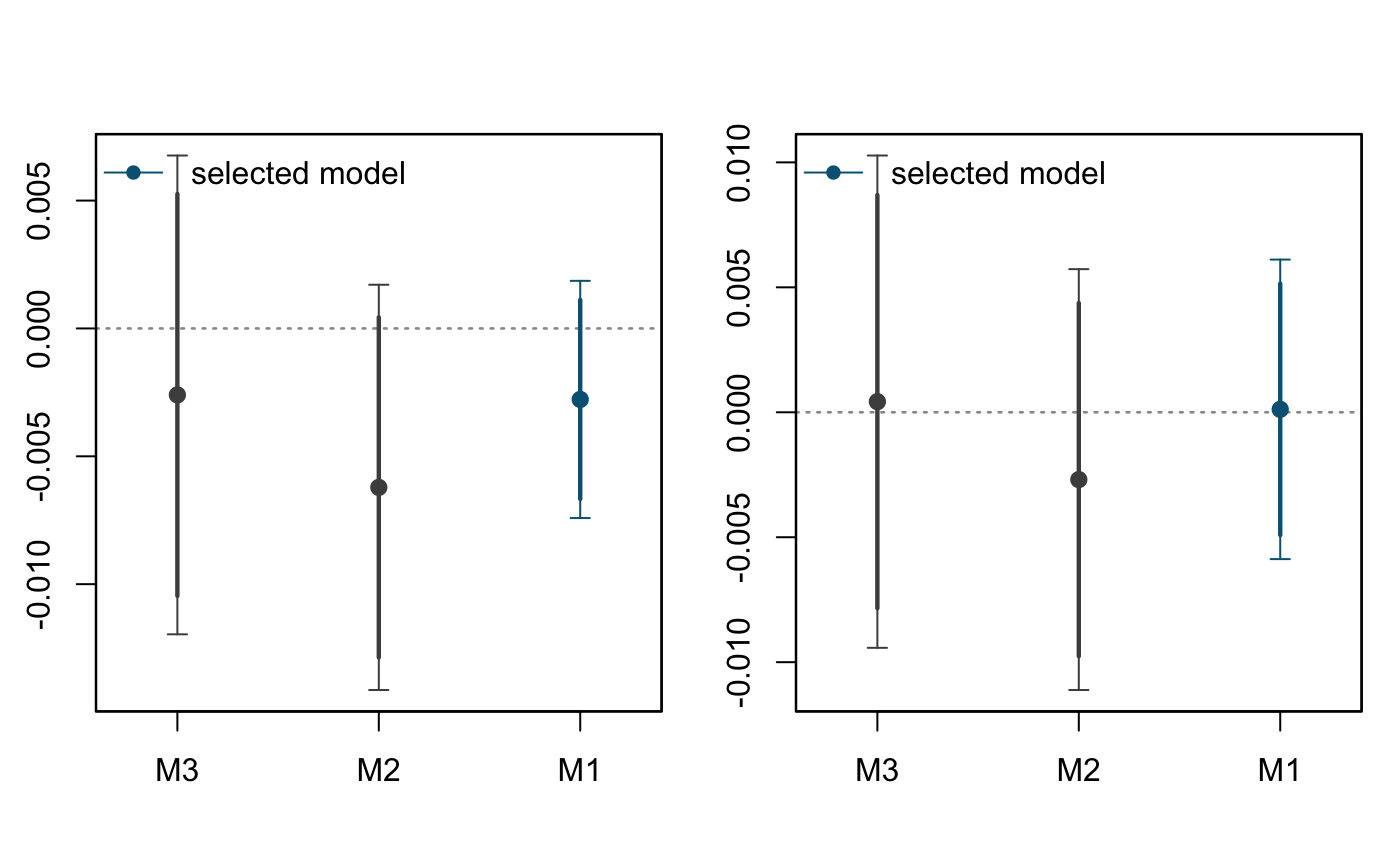
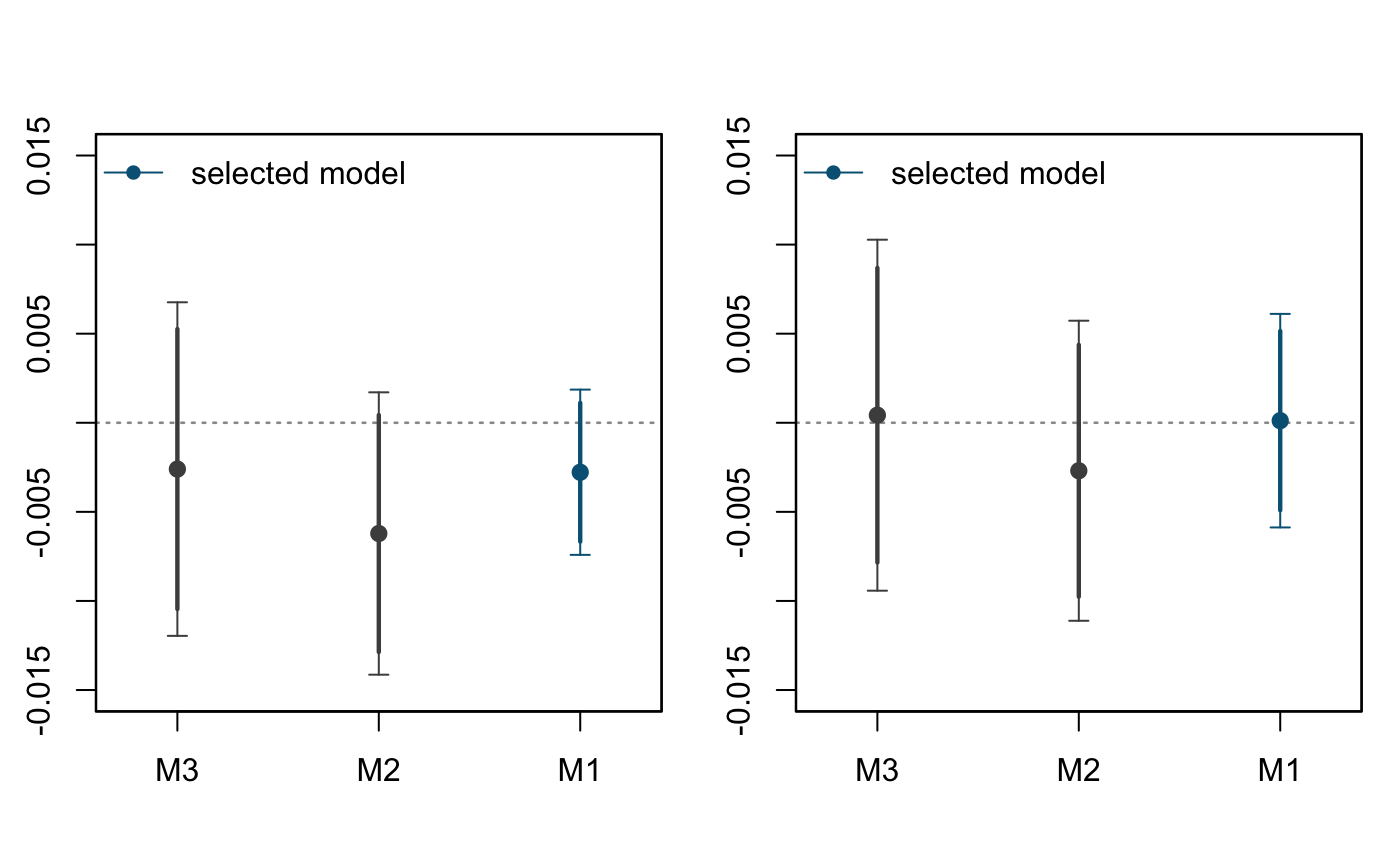
update docs

diff --git a/docs/articles/articles/diddesign.html b/docs/articles/articles/diddesign.html
@@ -79,7 +79,7 @@
     <div class="page-header toc-ignore">
       <h1>Example Usage (Panel Data)</h1>
             
-            <h4 class="date">2019-03-14</h4>
+            <h4 class="date">2019-03-15</h4>
       
       <small class="dont-index">Source: <a href="https://github.com/naoki-egami/DIDdesign/blob/master/vignettes/articles/diddesign.Rmd"><code>vignettes/articles/diddesign.Rmd</code></a></small>
       <div class="hidden name"><code>diddesign.Rmd</code></div>
@@ -102,7 +102,7 @@
 <h2 class="hasAnchor">
 <a href="#visualizing-data" class="anchor"></a>Visualizing Data</h2>
 <div class="sourceCode"><pre class="sourceCode r"><code class="sourceCode r"><span class="co"># original series </span>
-<span class="kw"><a href="../../reference/did_plot.html">did_plot</a></span>(lnavgsalary_cpi ~<span class="st"> </span>oncycle, <span class="dt">data =</span> anzia2012,
+<span class="kw"><a href="../../reference/did_plot.html">did_plot</a></span>(lnavgsalary_cpi <span class="op">~</span><span class="st"> </span>oncycle, <span class="dt">data =</span> anzia2012,
   <span class="dt">post_treatment =</span> <span class="kw"><a href="https://www.rdocumentation.org/packages/base/topics/c">c</a></span>(<span class="dv">2007</span>, <span class="dv">2008</span>, <span class="dv">2009</span>),
   <span class="dt">id_subject =</span> <span class="st">"district"</span>,
   <span class="dt">id_time =</span> <span class="st">"year"</span>,
@@ -112,7 +112,7 @@
 <p><img src="diddesign_files/figure-html/unnamed-chunk-2-1.png" width="700"></p>
 <div class="sourceCode"><pre class="sourceCode r"><code class="sourceCode r">
 <span class="co"># differenced series (changes-in-trend)</span>
-<span class="kw"><a href="../../reference/did_plot.html">did_plot</a></span>(lnavgsalary_cpi ~<span class="st"> </span>oncycle, <span class="dt">data =</span> anzia2012,
+<span class="kw"><a href="../../reference/did_plot.html">did_plot</a></span>(lnavgsalary_cpi <span class="op">~</span><span class="st"> </span>oncycle, <span class="dt">data =</span> anzia2012,
   <span class="dt">post_treatment =</span> <span class="kw"><a href="https://www.rdocumentation.org/packages/base/topics/c">c</a></span>(<span class="dv">2007</span>, <span class="dv">2008</span>, <span class="dv">2009</span>),
   <span class="dt">id_subject =</span> <span class="st">"district"</span>,
   <span class="dt">id_time =</span> <span class="st">"year"</span>,
@@ -125,7 +125,7 @@
 <h2 class="hasAnchor">
 <a href="#nonparametric-estimator" class="anchor"></a>Nonparametric Estimator</h2>
 <div class="sourceCode"><pre class="sourceCode r"><code class="sourceCode r"><span class="co"># estimate ATT</span>
-fit_np &lt;-<span class="st"> </span><span class="kw"><a href="../../reference/did.html">did</a></span>(lnavgsalary_cpi ~<span class="st"> </span>oncycle, <span class="dt">data =</span> anzia2012,
+fit_np &lt;-<span class="st"> </span><span class="kw"><a href="../../reference/did.html">did</a></span>(lnavgsalary_cpi <span class="op">~</span><span class="st"> </span>oncycle, <span class="dt">data =</span> anzia2012,
     <span class="dt">id_subject =</span> <span class="st">"district"</span>, <span class="dt">id_time =</span> <span class="st">"year"</span>,
     <span class="dt">post_treatment =</span> <span class="kw"><a href="https://www.rdocumentation.org/packages/base/topics/c">c</a></span>(<span class="dv">2007</span>, <span class="dv">2008</span>, <span class="dv">2009</span>),
     <span class="dt">method =</span> <span class="st">"nonparametric"</span>,
@@ -165,11 +165,12 @@ fit_np &lt;-<span class="st"> </span><span class="kw"><a href="../../reference/d
 <div id="parametric-estimator-with-covariates" class="section level2">
 <h2 class="hasAnchor">
 <a href="#parametric-estimator-with-covariates" class="anchor"></a>Parametric Estimator (with Covariates)</h2>
-<div class="sourceCode"><pre class="sourceCode r"><code class="sourceCode r">fit_p1 &lt;-<span class="st"> </span><span class="kw"><a href="../../reference/did.html">did</a></span>(lnavgsalary_cpi ~<span class="st"> </span>oncycle |<span class="st"> </span>teachers_avg_yrs_exper +
-<span class="st">                        </span>ami_pc +<span class="st"> </span>asian_pc +<span class="st"> </span>black_pc +<span class="st"> </span>hisp_pc,
+<div class="sourceCode"><pre class="sourceCode r"><code class="sourceCode r">fit_p1 &lt;-<span class="st"> </span><span class="kw"><a href="../../reference/did.html">did</a></span>(lnavgsalary_cpi <span class="op">~</span><span class="st"> </span>oncycle <span class="op">|</span><span class="st"> </span>teachers_avg_yrs_exper <span class="op">+</span>
+<span class="st">                        </span>ami_pc <span class="op">+</span><span class="st"> </span>asian_pc <span class="op">+</span><span class="st"> </span>black_pc <span class="op">+</span><span class="st"> </span>hisp_pc,
   <span class="dt">data =</span> anzia2012, <span class="dt">id_subject =</span> <span class="st">'district'</span>, <span class="dt">id_time =</span> <span class="st">'year'</span>,
   <span class="dt">post_treatment =</span> <span class="kw"><a href="https://www.rdocumentation.org/packages/base/topics/c">c</a></span>(<span class="dv">2007</span>, <span class="dv">2008</span>, <span class="dv">2009</span>),
-    <span class="dt">method =</span> <span class="st">'parametric'</span>)
+    <span class="dt">method =</span> <span class="st">'parametric'</span>,
+  <span class="dt">verbose =</span> <span class="ot">TRUE</span>)
 <span class="co">#&gt; </span>
 <span class="co">#&gt; ... estimating treatment effect for  2007  ...</span>
 <span class="co">#&gt; </span>
@@ -191,20 +192,15 @@ fit_np &lt;-<span class="st"> </span><span class="kw"><a href="../../reference/d
 <span class="co">#&gt; 2009 -0.015 [-0.024, -0.006]       M1</span>
 
 <span class="co"># plot function</span>
-<span class="kw"><a href="https://www.rdocumentation.org/packages/graphics/topics/plot">plot</a></span>(fit_p1, <span class="dt">full =</span> <span class="ot">TRUE</span>, <span class="dt">ylim =</span> <span class="kw"><a href="https://www.rdocumentation.org/packages/base/topics/c">c</a></span>(-<span class="fl">0.025</span>, <span class="fl">0.005</span>), <span class="dt">xlim =</span> <span class="kw"><a href="https://www.rdocumentation.org/packages/base/topics/c">c</a></span>(-<span class="fl">0.5</span>, <span class="fl">3.5</span>))
+<span class="kw"><a href="https://www.rdocumentation.org/packages/graphics/topics/plot">plot</a></span>(fit_p1, <span class="dt">full =</span> <span class="ot">TRUE</span>, <span class="dt">ylim =</span> <span class="kw"><a href="https://www.rdocumentation.org/packages/base/topics/c">c</a></span>(<span class="op">-</span><span class="fl">0.025</span>, <span class="fl">0.005</span>), <span class="dt">xlim =</span> <span class="kw"><a href="https://www.rdocumentation.org/packages/base/topics/c">c</a></span>(<span class="op">-</span><span class="fl">0.5</span>, <span class="fl">3.5</span>))
 <span class="kw"><a href="https://www.rdocumentation.org/packages/graphics/topics/abline">abline</a></span>(<span class="dt">h =</span> <span class="dv">0</span>, <span class="dt">col =</span> <span class="st">'gray'</span>, <span class="dt">lwd =</span> <span class="fl">1.5</span>, <span class="dt">lty =</span> <span class="dv">3</span>)</code></pre></div>
 <p><img src="diddesign_files/figure-html/unnamed-chunk-5-1.png" width="700"></p>
 <p>We can compare estimates from a model without covariates.</p>
-<div class="sourceCode"><pre class="sourceCode r"><code class="sourceCode r">fit_p2 &lt;-<span class="st"> </span><span class="kw"><a href="../../reference/did.html">did</a></span>(lnavgsalary_cpi ~<span class="st"> </span>oncycle, <span class="dt">data =</span> anzia2012,
+<div class="sourceCode"><pre class="sourceCode r"><code class="sourceCode r">fit_p2 &lt;-<span class="st"> </span><span class="kw"><a href="../../reference/did.html">did</a></span>(lnavgsalary_cpi <span class="op">~</span><span class="st"> </span>oncycle, <span class="dt">data =</span> anzia2012,
     <span class="dt">id_subject =</span> <span class="st">"district"</span>, <span class="dt">id_time =</span> <span class="st">"year"</span>,
     <span class="dt">post_treatment =</span> <span class="kw"><a href="https://www.rdocumentation.org/packages/base/topics/c">c</a></span>(<span class="dv">2007</span>, <span class="dv">2008</span>, <span class="dv">2009</span>),
-    <span class="dt">method =</span> <span class="st">"parametric"</span>)
-<span class="co">#&gt; </span>
-<span class="co">#&gt; ... estimating treatment effect for  2007  ...</span>
-<span class="co">#&gt; </span>
-<span class="co">#&gt; ... estimating treatment effect for  2008  ...</span>
-<span class="co">#&gt; </span>
-<span class="co">#&gt; ... estimating treatment effect for  2009  ...</span></code></pre></div>
+    <span class="dt">method =</span> <span class="st">"parametric"</span>,
+    <span class="dt">verbose =</span> <span class="ot">FALSE</span>)</code></pre></div>
 <div class="sourceCode"><pre class="sourceCode r"><code class="sourceCode r"><span class="co"># summary function</span>
 <span class="kw"><a href="https://www.rdocumentation.org/packages/base/topics/summary">summary</a></span>(fit_p2)
 <span class="co">#&gt; </span>
@@ -220,9 +216,9 @@ fit_np &lt;-<span class="st"> </span><span class="kw"><a href="../../reference/d
 
 <span class="co"># plot function</span>
 <span class="kw"><a href="https://www.rdocumentation.org/packages/graphics/topics/par">par</a></span>(<span class="dt">mfrow =</span> <span class="kw"><a href="https://www.rdocumentation.org/packages/base/topics/c">c</a></span>(<span class="dv">1</span>,<span class="dv">2</span>), <span class="dt">mar =</span> <span class="kw"><a href="https://www.rdocumentation.org/packages/base/topics/c">c</a></span>(<span class="dv">4</span>, <span class="fl">2.5</span>, <span class="fl">3.5</span>, <span class="dv">1</span>))
-<span class="kw"><a href="https://www.rdocumentation.org/packages/graphics/topics/plot">plot</a></span>(fit_p1, <span class="dt">full =</span> <span class="ot">TRUE</span>, <span class="dt">ylim =</span> <span class="kw"><a href="https://www.rdocumentation.org/packages/base/topics/c">c</a></span>(-<span class="fl">0.025</span>, <span class="fl">0.005</span>), <span class="dt">xlim =</span> <span class="kw"><a href="https://www.rdocumentation.org/packages/base/topics/c">c</a></span>(-<span class="fl">0.5</span>, <span class="fl">3.5</span>), <span class="dt">main =</span> <span class="st">"With Covariates"</span>)
+<span class="kw"><a href="https://www.rdocumentation.org/packages/graphics/topics/plot">plot</a></span>(fit_p1, <span class="dt">full =</span> <span class="ot">TRUE</span>, <span class="dt">ylim =</span> <span class="kw"><a href="https://www.rdocumentation.org/packages/base/topics/c">c</a></span>(<span class="op">-</span><span class="fl">0.025</span>, <span class="fl">0.005</span>), <span class="dt">xlim =</span> <span class="kw"><a href="https://www.rdocumentation.org/packages/base/topics/c">c</a></span>(<span class="op">-</span><span class="fl">0.5</span>, <span class="fl">3.5</span>), <span class="dt">main =</span> <span class="st">"With Covariates"</span>)
 <span class="kw"><a href="https://www.rdocumentation.org/packages/graphics/topics/abline">abline</a></span>(<span class="dt">h =</span> <span class="dv">0</span>, <span class="dt">col =</span> <span class="st">'gray'</span>, <span class="dt">lwd =</span> <span class="fl">1.5</span>, <span class="dt">lty =</span> <span class="dv">3</span>)
-<span class="kw"><a href="https://www.rdocumentation.org/packages/graphics/topics/plot">plot</a></span>(fit_p2, <span class="dt">full =</span> <span class="ot">TRUE</span>, <span class="dt">ylim =</span> <span class="kw"><a href="https://www.rdocumentation.org/packages/base/topics/c">c</a></span>(-<span class="fl">0.025</span>, <span class="fl">0.005</span>), <span class="dt">xlim =</span> <span class="kw"><a href="https://www.rdocumentation.org/packages/base/topics/c">c</a></span>(-<span class="fl">0.5</span>, <span class="fl">3.5</span>), <span class="dt">main =</span> <span class="st">'Without Covariates'</span>)
+<span class="kw"><a href="https://www.rdocumentation.org/packages/graphics/topics/plot">plot</a></span>(fit_p2, <span class="dt">full =</span> <span class="ot">TRUE</span>, <span class="dt">ylim =</span> <span class="kw"><a href="https://www.rdocumentation.org/packages/base/topics/c">c</a></span>(<span class="op">-</span><span class="fl">0.025</span>, <span class="fl">0.005</span>), <span class="dt">xlim =</span> <span class="kw"><a href="https://www.rdocumentation.org/packages/base/topics/c">c</a></span>(<span class="op">-</span><span class="fl">0.5</span>, <span class="fl">3.5</span>), <span class="dt">main =</span> <span class="st">'Without Covariates'</span>)
 <span class="kw"><a href="https://www.rdocumentation.org/packages/graphics/topics/abline">abline</a></span>(<span class="dt">h =</span> <span class="dv">0</span>, <span class="dt">col =</span> <span class="st">'gray'</span>, <span class="dt">lwd =</span> <span class="fl">1.5</span>, <span class="dt">lty =</span> <span class="dv">3</span>)</code></pre></div>
 <p><img src="diddesign_files/figure-html/unnamed-chunk-7-1.png" width="700"></p>
 </div>
@@ -230,8 +226,8 @@ fit_np &lt;-<span class="st"> </span><span class="kw"><a href="../../reference/d
 <h2 class="hasAnchor">
 <a href="#selection-plot" class="anchor"></a>Selection plot</h2>
 <div class="sourceCode"><pre class="sourceCode r"><code class="sourceCode r"><span class="kw"><a href="https://www.rdocumentation.org/packages/graphics/topics/par">par</a></span>(<span class="dt">mfrow =</span> <span class="kw"><a href="https://www.rdocumentation.org/packages/base/topics/c">c</a></span>(<span class="dv">1</span>,<span class="dv">2</span>), <span class="dt">mar =</span> <span class="kw"><a href="https://www.rdocumentation.org/packages/base/topics/c">c</a></span>(<span class="dv">4</span>, <span class="fl">2.5</span>, <span class="fl">3.5</span>, <span class="dv">1</span>))
-<span class="kw"><a href="../../reference/did_plot_selection.html">did_plot_selection</a></span>(fit_p1, <span class="dt">equivalence =</span> <span class="ot">FALSE</span>)
-<span class="kw"><a href="../../reference/did_plot_selection.html">did_plot_selection</a></span>(fit_p2, <span class="dt">equivalence =</span> <span class="ot">FALSE</span>)</code></pre></div>
+<span class="kw"><a href="../../reference/did_plot_selection.html">did_plot_selection</a></span>(fit_p1, <span class="dt">ylim =</span> <span class="kw"><a href="https://www.rdocumentation.org/packages/base/topics/c">c</a></span>(<span class="op">-</span><span class="fl">0.015</span>, <span class="fl">0.015</span>), <span class="dt">equivalence =</span> <span class="ot">FALSE</span>)
+<span class="kw"><a href="../../reference/did_plot_selection.html">did_plot_selection</a></span>(fit_p2, <span class="dt">ylim =</span> <span class="kw"><a href="https://www.rdocumentation.org/packages/base/topics/c">c</a></span>(<span class="op">-</span><span class="fl">0.015</span>, <span class="fl">0.015</span>), <span class="dt">equivalence =</span> <span class="ot">FALSE</span>)</code></pre></div>
 <p><img src="diddesign_files/figure-html/unnamed-chunk-8-1.png" width="700"></p>
 </div>
   </div>

diff --git a/docs/articles/articles/diddesign_rcs.html b/docs/articles/articles/diddesign_rcs.html
@@ -79,7 +79,7 @@
     <div class="page-header toc-ignore">
       <h1>Example Usage (Repeated Cross-Section Data)</h1>
             
-            <h4 class="date">2019-03-14</h4>
+            <h4 class="date">2019-03-15</h4>
       
       <small class="dont-index">Source: <a href="https://github.com/naoki-egami/DIDdesign/blob/master/vignettes/articles/diddesign_rcs.Rmd"><code>vignettes/articles/diddesign_rcs.Rmd</code></a></small>
       <div class="hidden name"><code>diddesign_rcs.Rmd</code></div>
@@ -106,22 +106,22 @@
 <p>We begin our analysis first by generating did plot with <code><a href="../../reference/did_plot.html">did_plot()</a></code> function.</p>
 <div class="sourceCode"><pre class="sourceCode r"><code class="sourceCode r"><span class="kw"><a href="https://www.rdocumentation.org/packages/graphics/topics/par">par</a></span>(<span class="dt">mfrow =</span> <span class="kw"><a href="https://www.rdocumentation.org/packages/base/topics/c">c</a></span>(<span class="dv">1</span>,<span class="dv">2</span>), <span class="dt">mar =</span> <span class="kw"><a href="https://www.rdocumentation.org/packages/base/topics/c">c</a></span>(<span class="dv">4</span>, <span class="fl">2.5</span>, <span class="fl">3.5</span>, <span class="dv">1</span>))
 <span class="co"># original series </span>
-<span class="kw"><a href="../../reference/did_plot.html">did_plot</a></span>(goodroadv ~<span class="st"> </span>treatment, <span class="dt">data =</span> malesky2014,
+<span class="kw"><a href="../../reference/did_plot.html">did_plot</a></span>(goodroadv <span class="op">~</span><span class="st"> </span>treatment, <span class="dt">data =</span> malesky2014,
          <span class="dt">post_treatment =</span> <span class="kw"><a href="https://www.rdocumentation.org/packages/base/topics/c">c</a></span>(<span class="dv">2010</span>),
          <span class="dt">id_time =</span> <span class="st">"year"</span>,
          <span class="dt">diff_order =</span> <span class="dv">0</span>,
          <span class="dt">main =</span> <span class="st">'Original Series'</span>,
-         <span class="dt">ylim =</span> <span class="kw"><a href="https://www.rdocumentation.org/packages/base/topics/c">c</a></span>(-<span class="fl">0.5</span>, <span class="dv">2</span>)
+         <span class="dt">ylim =</span> <span class="kw"><a href="https://www.rdocumentation.org/packages/base/topics/c">c</a></span>(<span class="op">-</span><span class="fl">0.5</span>, <span class="dv">2</span>)
 )
 <span class="co">#&gt; treat data as repeated cross-section data</span>
 
 <span class="co"># differenced series</span>
-<span class="kw"><a href="../../reference/did_plot.html">did_plot</a></span>(goodroadv ~<span class="st"> </span>treatment, <span class="dt">data =</span> malesky2014,
+<span class="kw"><a href="../../reference/did_plot.html">did_plot</a></span>(goodroadv <span class="op">~</span><span class="st"> </span>treatment, <span class="dt">data =</span> malesky2014,
          <span class="dt">post_treatment =</span> <span class="kw"><a href="https://www.rdocumentation.org/packages/base/topics/c">c</a></span>(<span class="dv">2010</span>),
          <span class="dt">id_time =</span> <span class="st">"year"</span>,
          <span class="dt">diff_order =</span> <span class="dv">1</span>,
          <span class="dt">main =</span> <span class="st">'Differenced Series'</span>,
-         <span class="dt">ylim =</span> <span class="kw"><a href="https://www.rdocumentation.org/packages/base/topics/c">c</a></span>(-<span class="fl">1.5</span>, <span class="fl">1.5</span>)
+         <span class="dt">ylim =</span> <span class="kw"><a href="https://www.rdocumentation.org/packages/base/topics/c">c</a></span>(<span class="op">-</span><span class="fl">1.5</span>, <span class="fl">1.5</span>)
 )
 <span class="co">#&gt; treat data as repeated cross-section data</span></code></pre></div>
 <p><img src="diddesign_rcs_files/figure-html/unnamed-chunk-2-1.png" width="700"></p>
@@ -130,13 +130,13 @@
 <h2 class="hasAnchor">
 <a href="#estimating-treatment-effects" class="anchor"></a>Estimating treatment effects</h2>
 <div class="sourceCode"><pre class="sourceCode r"><code class="sourceCode r"><span class="co"># parametric estimator without covariates</span>
-fit_p0 &lt;-<span class="st"> </span><span class="kw"><a href="../../reference/did.html">did</a></span>(goodroadv ~<span class="st"> </span>treatment, <span class="dt">data =</span> malesky2014,
+fit_p0 &lt;-<span class="st"> </span><span class="kw"><a href="../../reference/did.html">did</a></span>(goodroadv <span class="op">~</span><span class="st"> </span>treatment, <span class="dt">data =</span> malesky2014,
               <span class="dt">post_treatment =</span> <span class="kw"><a href="https://www.rdocumentation.org/packages/base/topics/c">c</a></span>(<span class="dv">2010</span>),
               <span class="dt">id_time =</span> <span class="st">"year"</span>,
               <span class="dt">method =</span> <span class="st">'parametric'</span>)
 <span class="co">#&gt; id_subject is left unspecified. treating data as repeated cross-section.</span>
 
-fit_p1 &lt;-<span class="st"> </span><span class="kw"><a href="../../reference/did.html">did</a></span>(goodroadv ~<span class="st"> </span>treatment |<span class="st"> </span>lnarea +<span class="st"> </span>lnpopden +<span class="st"> </span>city +<span class="st"> </span><span class="kw"><a href="https://www.rdocumentation.org/packages/base/topics/factor">as.factor</a></span>(reg8), 
+fit_p1 &lt;-<span class="st"> </span><span class="kw"><a href="../../reference/did.html">did</a></span>(goodroadv <span class="op">~</span><span class="st"> </span>treatment <span class="op">|</span><span class="st"> </span>lnarea <span class="op">+</span><span class="st"> </span>lnpopden <span class="op">+</span><span class="st"> </span>city <span class="op">+</span><span class="st"> </span><span class="kw"><a href="https://www.rdocumentation.org/packages/base/topics/factor">as.factor</a></span>(reg8), 
               <span class="dt">data =</span> malesky2014,
               <span class="dt">post_treatment =</span> <span class="kw"><a href="https://www.rdocumentation.org/packages/base/topics/c">c</a></span>(<span class="dv">2010</span>),
               <span class="dt">id_time =</span> <span class="st">"year"</span>,
@@ -144,9 +144,9 @@ fit_p1 &lt;-<span class="st"> </span><span class="kw"><a href="../../reference/d
 <span class="co">#&gt; id_subject is left unspecified. treating data as repeated cross-section.</span></code></pre></div>
 <div class="sourceCode"><pre class="sourceCode r"><code class="sourceCode r"><span class="co"># plot function</span>
 <span class="kw"><a href="https://www.rdocumentation.org/packages/graphics/topics/par">par</a></span>(<span class="dt">mfrow =</span> <span class="kw"><a href="https://www.rdocumentation.org/packages/base/topics/c">c</a></span>(<span class="dv">1</span>,<span class="dv">2</span>), <span class="dt">mar =</span> <span class="kw"><a href="https://www.rdocumentation.org/packages/base/topics/c">c</a></span>(<span class="dv">4</span>, <span class="fl">2.5</span>, <span class="fl">3.5</span>, <span class="dv">1</span>))
-<span class="kw"><a href="https://www.rdocumentation.org/packages/graphics/topics/plot">plot</a></span>(fit_p0, <span class="dt">full =</span> <span class="ot">TRUE</span>, <span class="dt">ylim =</span> <span class="kw"><a href="https://www.rdocumentation.org/packages/base/topics/c">c</a></span>(-<span class="fl">0.05</span>, <span class="fl">0.35</span>), <span class="dt">main =</span> <span class="st">"Without Covariates"</span>)
+<span class="kw"><a href="https://www.rdocumentation.org/packages/graphics/topics/plot">plot</a></span>(fit_p0, <span class="dt">full =</span> <span class="ot">TRUE</span>, <span class="dt">ylim =</span> <span class="kw"><a href="https://www.rdocumentation.org/packages/base/topics/c">c</a></span>(<span class="op">-</span><span class="fl">0.05</span>, <span class="fl">0.35</span>), <span class="dt">main =</span> <span class="st">"Without Covariates"</span>)
 <span class="kw"><a href="https://www.rdocumentation.org/packages/graphics/topics/abline">abline</a></span>(<span class="dt">h =</span> <span class="dv">0</span>, <span class="dt">col =</span> <span class="st">'gray'</span>, <span class="dt">lwd =</span> <span class="fl">1.5</span>, <span class="dt">lty =</span> <span class="dv">3</span>)
-<span class="kw"><a href="https://www.rdocumentation.org/packages/graphics/topics/plot">plot</a></span>(fit_p1, <span class="dt">full =</span> <span class="ot">TRUE</span>, <span class="dt">ylim =</span> <span class="kw"><a href="https://www.rdocumentation.org/packages/base/topics/c">c</a></span>(-<span class="fl">0.05</span>, <span class="fl">0.35</span>), <span class="dt">main =</span> <span class="st">'With Covariates'</span>)
+<span class="kw"><a href="https://www.rdocumentation.org/packages/graphics/topics/plot">plot</a></span>(fit_p1, <span class="dt">full =</span> <span class="ot">TRUE</span>, <span class="dt">ylim =</span> <span class="kw"><a href="https://www.rdocumentation.org/packages/base/topics/c">c</a></span>(<span class="op">-</span><span class="fl">0.05</span>, <span class="fl">0.35</span>), <span class="dt">main =</span> <span class="st">'With Covariates'</span>)
 <span class="kw"><a href="https://www.rdocumentation.org/packages/graphics/topics/abline">abline</a></span>(<span class="dt">h =</span> <span class="dv">0</span>, <span class="dt">col =</span> <span class="st">'gray'</span>, <span class="dt">lwd =</span> <span class="fl">1.5</span>, <span class="dt">lty =</span> <span class="dv">3</span>)</code></pre></div>
 <p><img src="diddesign_rcs_files/figure-html/unnamed-chunk-4-1.png" width="700"></p>
 <div class="sourceCode"><pre class="sourceCode r"><code class="sourceCode r"><span class="co"># view summary</span>
@@ -204,9 +204,9 @@ fit_p1 &lt;-<span class="st"> </span><span class="kw"><a href="../../reference/d
 <a href="#assessing-model-selection" class="anchor"></a>Assessing model selection</h2>
 <div class="sourceCode"><pre class="sourceCode r"><code class="sourceCode r"><span class="kw"><a href="https://www.rdocumentation.org/packages/graphics/topics/par">par</a></span>(<span class="dt">mfrow =</span> <span class="kw"><a href="https://www.rdocumentation.org/packages/base/topics/c">c</a></span>(<span class="dv">1</span>,<span class="dv">2</span>), <span class="dt">mar =</span> <span class="kw"><a href="https://www.rdocumentation.org/packages/base/topics/c">c</a></span>(<span class="dv">4</span>, <span class="fl">2.5</span>, <span class="fl">3.5</span>, <span class="dv">1</span>))
 <span class="kw"><a href="../../reference/did_plot_selection.html">did_plot_selection</a></span>(fit_p0, <span class="dt">equivalence =</span> <span class="ot">FALSE</span>, 
-  <span class="dt">ylim =</span> <span class="kw"><a href="https://www.rdocumentation.org/packages/base/topics/c">c</a></span>(-<span class="fl">0.2</span>, <span class="fl">0.05</span>), <span class="dt">main =</span> <span class="st">"Without Covariates"</span>)
+  <span class="dt">ylim =</span> <span class="kw"><a href="https://www.rdocumentation.org/packages/base/topics/c">c</a></span>(<span class="op">-</span><span class="fl">0.2</span>, <span class="fl">0.05</span>), <span class="dt">main =</span> <span class="st">"Without Covariates"</span>)
 <span class="kw"><a href="../../reference/did_plot_selection.html">did_plot_selection</a></span>(fit_p1, <span class="dt">equivalence =</span> <span class="ot">FALSE</span>, 
-  <span class="dt">ylim =</span> <span class="kw"><a href="https://www.rdocumentation.org/packages/base/topics/c">c</a></span>(-<span class="fl">0.2</span>, <span class="fl">0.05</span>), <span class="dt">main =</span> <span class="st">"With Covariates"</span>)</code></pre></div>
+  <span class="dt">ylim =</span> <span class="kw"><a href="https://www.rdocumentation.org/packages/base/topics/c">c</a></span>(<span class="op">-</span><span class="fl">0.2</span>, <span class="fl">0.05</span>), <span class="dt">main =</span> <span class="st">"With Covariates"</span>)</code></pre></div>
 <p><img src="diddesign_rcs_files/figure-html/unnamed-chunk-6-1.png" width="700"></p>
 </div>
   </div>

diff --git a/docs/reference/dekadt2018.html b/docs/reference/dekadt2018.html
@@ -148,7 +148,8 @@
 <span class='co'># fit</span>
 <span class='no'>fit</span> <span class='kw'>&lt;-</span> <span class='fu'><a href='did.html'>did</a></span>(<span class='no'>anc_vs_na</span> ~ <span class='no'>treatment</span>, <span class='kw'>data</span> <span class='kw'>=</span> <span class='no'>dekadt2018</span>,
   <span class='kw'>id_subject</span> <span class='kw'>=</span> <span class='st'>'ward_id'</span>, <span class='kw'>id_time</span> <span class='kw'>=</span> <span class='st'>'year'</span>,
-  <span class='kw'>post_treatment</span> <span class='kw'>=</span> <span class='fu'><a href='https://www.rdocumentation.org/packages/base/topics/c'>c</a></span>(<span class='fl'>2009</span>, <span class='fl'>2011</span>, <span class='fl'>2014</span>)
+  <span class='kw'>post_treatment</span> <span class='kw'>=</span> <span class='fu'><a href='https://www.rdocumentation.org/packages/base/topics/c'>c</a></span>(<span class='fl'>2009</span>, <span class='fl'>2011</span>, <span class='fl'>2014</span>),
+  <span class='kw'>method</span> <span class='kw'>=</span> <span class='st'>'parametric'</span>
 )</div><div class='output co'>#&gt; 
 #&gt; ... estimating treatment effect for  2009  ...
 #&gt; 

diff --git a/docs/articles/articles/introduction.html b/docs/articles/articles/introduction.html
@@ -79,7 +79,7 @@
     <div class="page-header toc-ignore">
       <h1>Getting Started</h1>
             
-            <h4 class="date">2019-03-14</h4>
+            <h4 class="date">2019-03-15</h4>
       
       <small class="dont-index">Source: <a href="https://github.com/naoki-egami/DIDdesign/blob/master/vignettes/articles/introduction.Rmd"><code>vignettes/articles/introduction.Rmd</code></a></small>
       <div class="hidden name"><code>introduction.Rmd</code></div>
